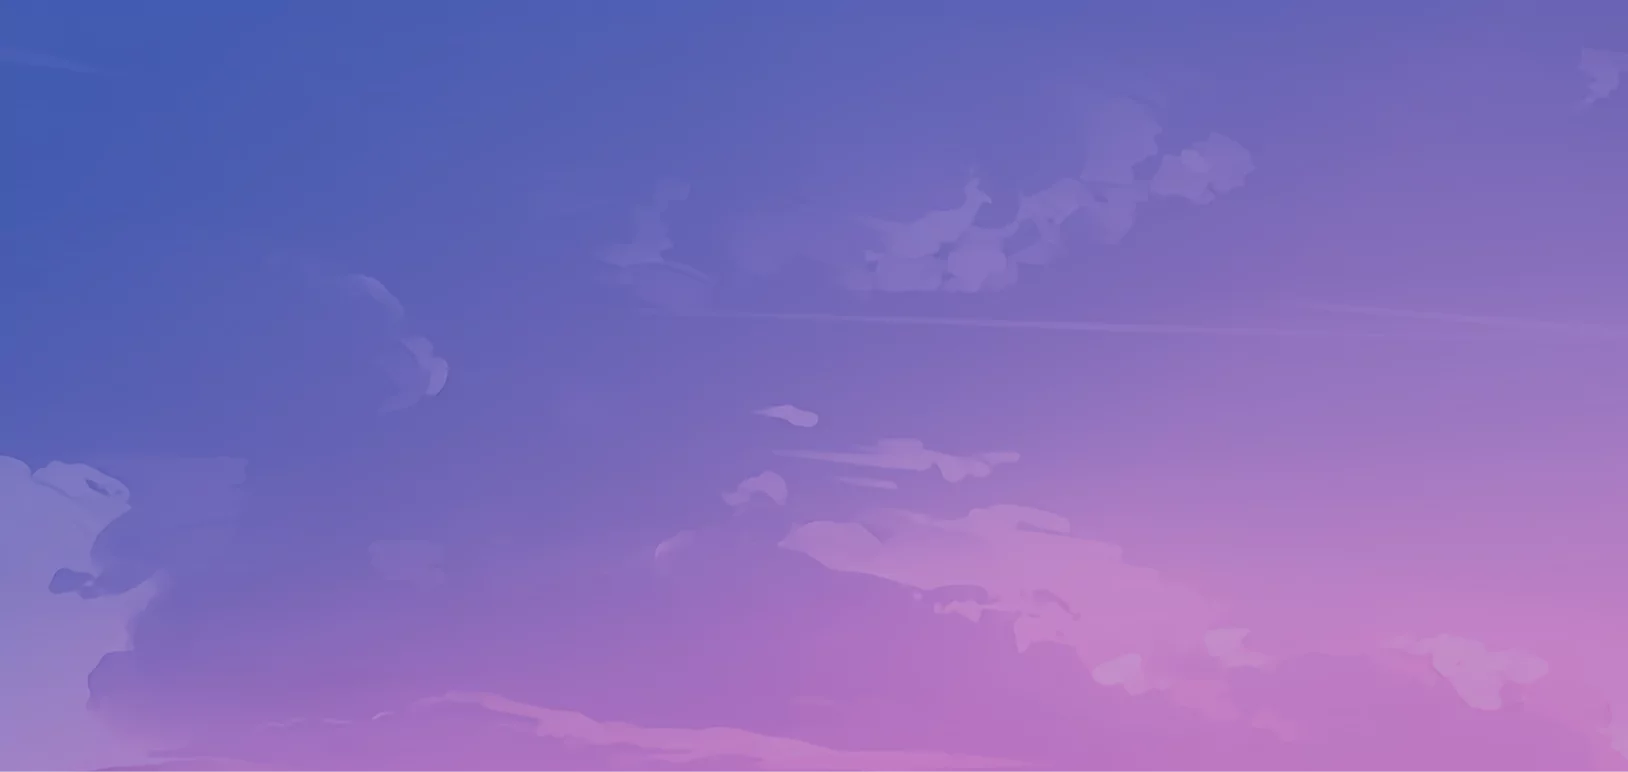
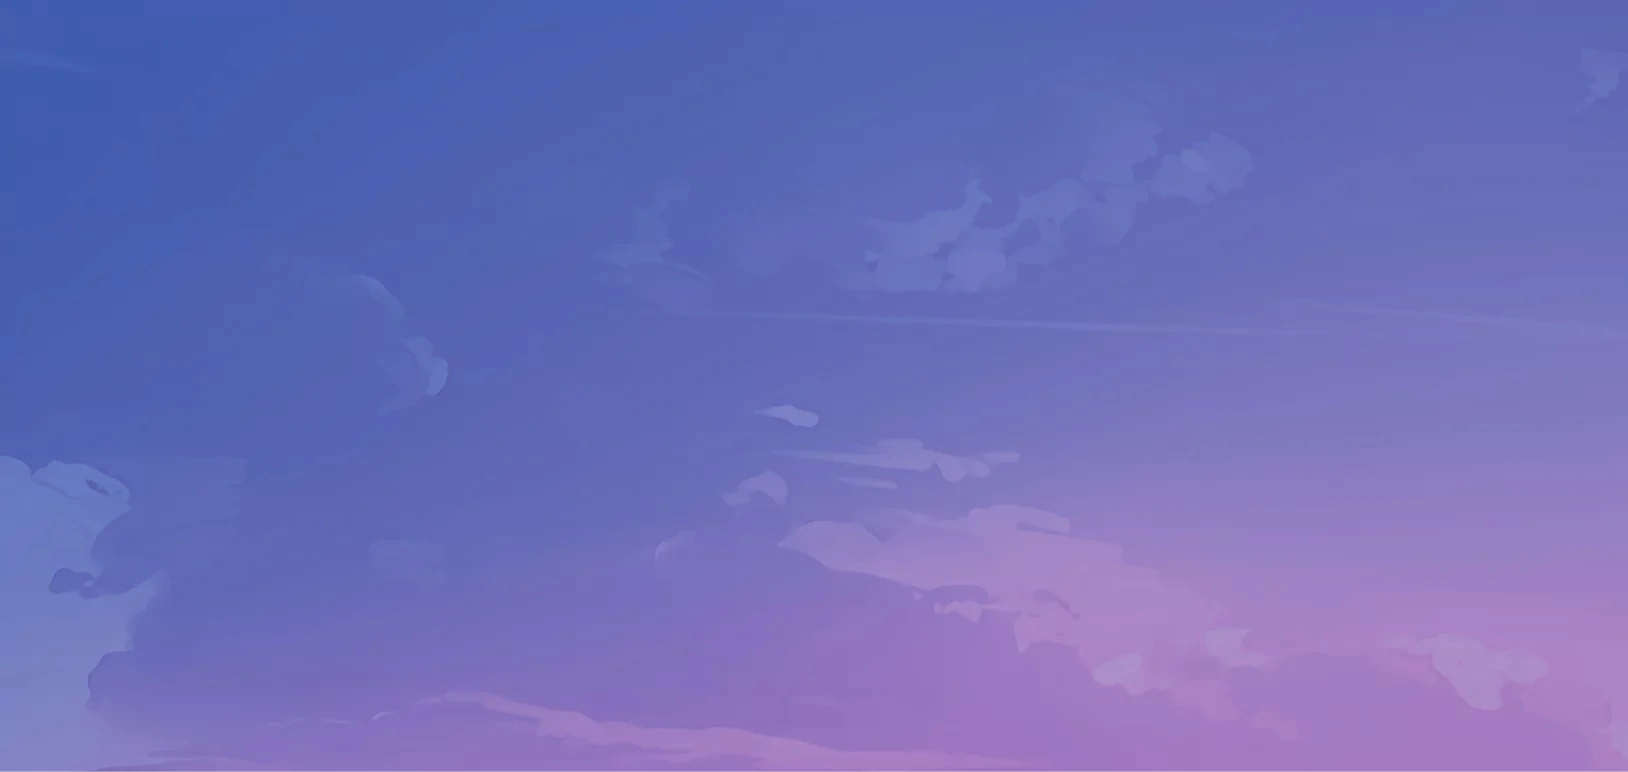
Mobile Models Style
- When on mobile, models now look and feel like many popular apps by sliding up from the bottom! You can even switch between desktop and mobile forms without breaking animations
- Various spacing and sizing tweaks, mainly to make mobile more refined
- Fixed some bugs caused by consolidating code

diff --git a/global/css/style.css b/global/css/style.css
@@ -540,45 +540,6 @@ nav{
     margin-left: -6px;
 }
 
-/*Forms*/
-form input, form button[type=submit]{
-    background-color: var(--background-secondary);
-    border: 1px solid var(--color-primary);
-    font-size: 20pt;
-}
- 
-form input:hover, form input:focus {
-    background-color: var(--color-tertiary);
-}
-
-form input {
-    border-radius: 5px;
-    margin: 5px;
-    padding: 5px;
-    text-align: left;
-    transition: width 0.2s;
-    width: 50%;
-    min-width: 250px;
-}
-
-form input[type=submit] {
-    border-radius: 10px;
-    margin: 5px;
-    padding: 5px;
-    padding-left: 25px;
-    padding-right: 25px;
-    width: auto;
-    min-width: 100px;
-    height: 50px;
-    text-align: center;
-    cursor: pointer;
-}
-
-form button[type=submit]:hover {
-    border: 2px solid white;
-    background-image: linear-gradient(to bottom, var(--color-primary), var(--color-secondary));
-}
-
 /*Listbox*/
 .listbox {
     margin-bottom: 20px;
@@ -780,7 +741,8 @@ code .orange { color: rgb(255, 177, 134); }
     height: max-content;
     min-height: 60px;
     max-height: 500px;
-    padding: 12px 16px;
+    padding: 5px 16px;
+    padding-bottom: 25px;
     overflow-Y: auto;
 }
 
@@ -939,14 +901,12 @@ code .orange { color: rgb(255, 177, 134); }
     margin: auto;
     left: 0;
     right: 0;
-    width: 30%;
-    max-width: 200px;
-    min-width: 175px;
-    height: 70px;
+    width: 180px;
+    height: 64px;
     border: 4px solid #d3d3d3;
     border-radius: 20px;
     font-size: 18pt;
-    transition: font-size 0.2s, background-color 0.2s, color 0.2s;
+    transition: font-size 0.2s, background-color 0.2s, color 0.2s, border 0.2s;
     cursor: pointer;
 }
 
@@ -1122,12 +1082,10 @@ code .orange { color: rgb(255, 177, 134); }
 
     main{
         padding-top: 5px;
-        margin-top: -15px;
         padding-bottom: 75px;
     }
 
     article{
-        margin-top: 20px;
         margin-bottom: 0px;
         width: 95%;
         border-radius: 10px;
@@ -1240,23 +1198,13 @@ code .orange { color: rgb(255, 177, 134); }
         text-align: center;
     }
 
-    #imageDisplay{
-        margin-top: 5vh;
-        width: 100vw;
-    }
-
     .listbox a, .engines button{
         margin: 2px;
         font-size: 16pt;
     }
 
     #bannerMain{
-        height: 310px;
-        margin-top: 0px;
-    }
-
-    .bannerContent{
-        margin-top: 40px;
+        height: 360px;
     }
 
     .bubbleList {
@@ -1269,6 +1217,28 @@ code .orange { color: rgb(255, 177, 134); }
         margin-left: 0px;
         margin-right: 0px;
     }    
+
+    #modalViewer{
+        z-index: 5;
+    }
+
+    #imageViewer{
+        z-index: 6;
+    }
+
+    #imageDisplay {
+        margin-top: 10vh;
+        width: 100vw;
+    }
+
+    .modal-content {
+        width: 100%;
+        height: auto;
+        min-height: 300px;
+        border: 0px;
+        top: initial;
+        bottom: -10px;
+    }
 }
 
 @media only screen and (max-width: 500px) {
@@ -1351,10 +1321,21 @@ code .orange { color: rgb(255, 177, 134); }
     100% { transform: scale(0.5); }
 }
 
+@keyframes disappearSlide {
+    0% {  transform: translateY(0px); }
+    100% { transform: translateY(100vh); }
+}
+
 @keyframes disappearScaleFull {
     0% {  transform: scale(1); }
     50% { opacity: 0; }
     100% { transform: scale(0); }
+}
+
+@keyframes appearSlide {
+    0% {  transform: translateY(100vh); }
+    70% { transform: translateY(-10px); }
+    100% { transform: translateY(0px); }
 }
 
 @keyframes slideDownBelow {

diff --git a/global/css/universal.css b/global/css/universal.css
@@ -147,3 +147,43 @@ hover-text img{
     width: 32px;
     height: 32px;
 }
+
+/*Forms*/
+form input, form button[type=submit]{
+    background-color: var(--background-secondary);
+    border: 1px solid var(--color-primary);
+    font-size: 16pt;
+}
+ 
+form input:hover, form input:focus {
+    background-color: var(--color-tertiary);
+}
+
+form input {
+    border-radius: 5px;
+    margin: 3px;
+    padding: 3px;
+    text-align: left;
+    transition: width 0.2s;
+    width: 50%;
+    min-width: 250px;
+    max-width: 400px;
+}
+
+form input[type=submit] {
+    border-radius: 10px;
+    margin: 5px;
+    padding: 5px;
+    padding-left: 25px;
+    padding-right: 25px;
+    width: auto;
+    min-width: 80px;
+    height: 40px;
+    text-align: center;
+    cursor: pointer;
+}
+
+form button[type=submit]:hover {
+    border: 2px solid white;
+    background-image: linear-gradient(to bottom, var(--color-primary), var(--color-secondary));
+}

diff --git a/global/scripts/scripts.js b/global/scripts/scripts.js
@@ -186,12 +186,26 @@ function uiFunction(name) {
       else {
         // Ensure all inner-models are closed
         modalContents.forEach(content => {
-          content.style.animation = "disappearScale 0.4s forwards";
-          setTimeout(function(){content.style.display = "none";}, 150);
+          if (window.matchMedia("(min-width: 750px)").matches){
+            content.style.animation = "disappearScaleFull 0.4s forwards";
+            setTimeout(function(){content.style.display = "none";}, 150);
+          }
+          else {
+            content.style.animation = "disappearSlide 0.4s forwards";
+            setTimeout(function(){content.style.display = "none";}, 400);
+          }
+          
         });
       
-        modal.style.animation = "disappearOpacity 0.15s forwards";
-        setTimeout(function(){modal.style.display = "none";}, 150);
+        if (window.matchMedia("(min-width: 750px)").matches){
+          modal.style.animation = "disappearOpacity 0.15s forwards";
+          setTimeout(function(){modal.style.display = "none";}, 150);
+        }
+        else {
+          modal.style.animation = "disappearOpacity 0.3s forwards";
+          setTimeout(function(){modal.style.display = "none";}, 300);
+        }
+       
       }
       UIStateModal = !UIStateModal;
       break;
@@ -212,15 +226,26 @@ function uiFlexFunction(name, item) {
         else{
           modalContents.forEach(content => {
             if(content != modalContent) {
+              if (window.matchMedia("(min-width: 750px)").matches){
                 content.style.animation = "disappearScaleFull 0.4s forwards";
                 setTimeout(function(){content.style.display = "none";}, 150);
               }
+              else {
+                content.style.animation = "disappearSlide 0.3s forwards";
+                setTimeout(function(){content.style.display = "none";}, 300);
+              }
+            }
           });
         }
 
         // Display the selected model
         modalContent.style.display = "block";
-        modalContent.style.animation = "appearScale 0.3s forwards";
+        if (window.matchMedia("(min-width: 750px)").matches){
+          modalContent.style.animation = "appearScale 0.3s forwards";
+        }
+        else {
+          modalContent.style.animation = "appearSlide 0.4s forwards";
+        }
       break;
     }
   }
@@ -237,7 +262,7 @@ function closeThatNav() {
   document.getElementById("navbox").style.height = "56px";
   document.getElementById("navbox").scrollTop = 0;
   // Patch to fix desktop nav cutoff issue
-  if (window.matchMedia("(max-width: 800px)").matches){
+  if (window.matchMedia("(max-width: 750px)").matches){
     document.getElementById("navbox").style.overflowY = "hidden";
     console.log('test');
   }

diff --git a/global/css/galleon.css b/global/css/galleon.css
@@ -43,8 +43,8 @@
 }
 
 .bannerButton:hover img{
-    width: 150px;
-    margin-top: -60px;
+    width: 130px;
+    margin-top: -80px;
 }
 
 .bannerButton:active img{
@@ -54,15 +54,15 @@
 }
 
 .bubbleList div{
-  background-color: rgb(76, 66, 94);
-  border: 2px solid #f6b6ff;
+  background-color: rgb(67, 66, 94);
+  border: 2px solid #9a9ad4;
   cursor: pointer;
   transition: transform 0.15s, box-shadow 0.15s;
 }
 
 [data-theme='light'] .bubbleList div{
   background-color: rgb(241, 238, 254);
-  border: 2px solid #f6b6ff;
+  border: 2px solid #b4b0ff;
 }
 
 .bubbleList div:hover{

diff --git a/global/css/seal.css b/global/css/seal.css
@@ -45,6 +45,7 @@ main{
 input[type='search'] {
     background-color: var(--blurred-background);
     width: 725px;
+    max-width: 725px;
     height: 55px;
     padding: 20px;
     font-size: 24px;
@@ -66,8 +67,8 @@ main form input[type="submit"] {
     position: absolute;
     margin: 0px;
     padding: 0px;
-    margin-left: -80px;
-    margin-top: 5px;
+    margin-left: -78px;
+    margin-top: 3px;
     width: 75px;
     min-width: 0px;
     height: 55px;
@@ -76,7 +77,7 @@ main form input[type="submit"] {
     border-bottom-right-radius: 10px;
     border: 2px solid #d3d3d3;
     text-align: center;
-    font-size: 20pt;
+    font-size: 18pt;
 }
 
 .searchGo:active{